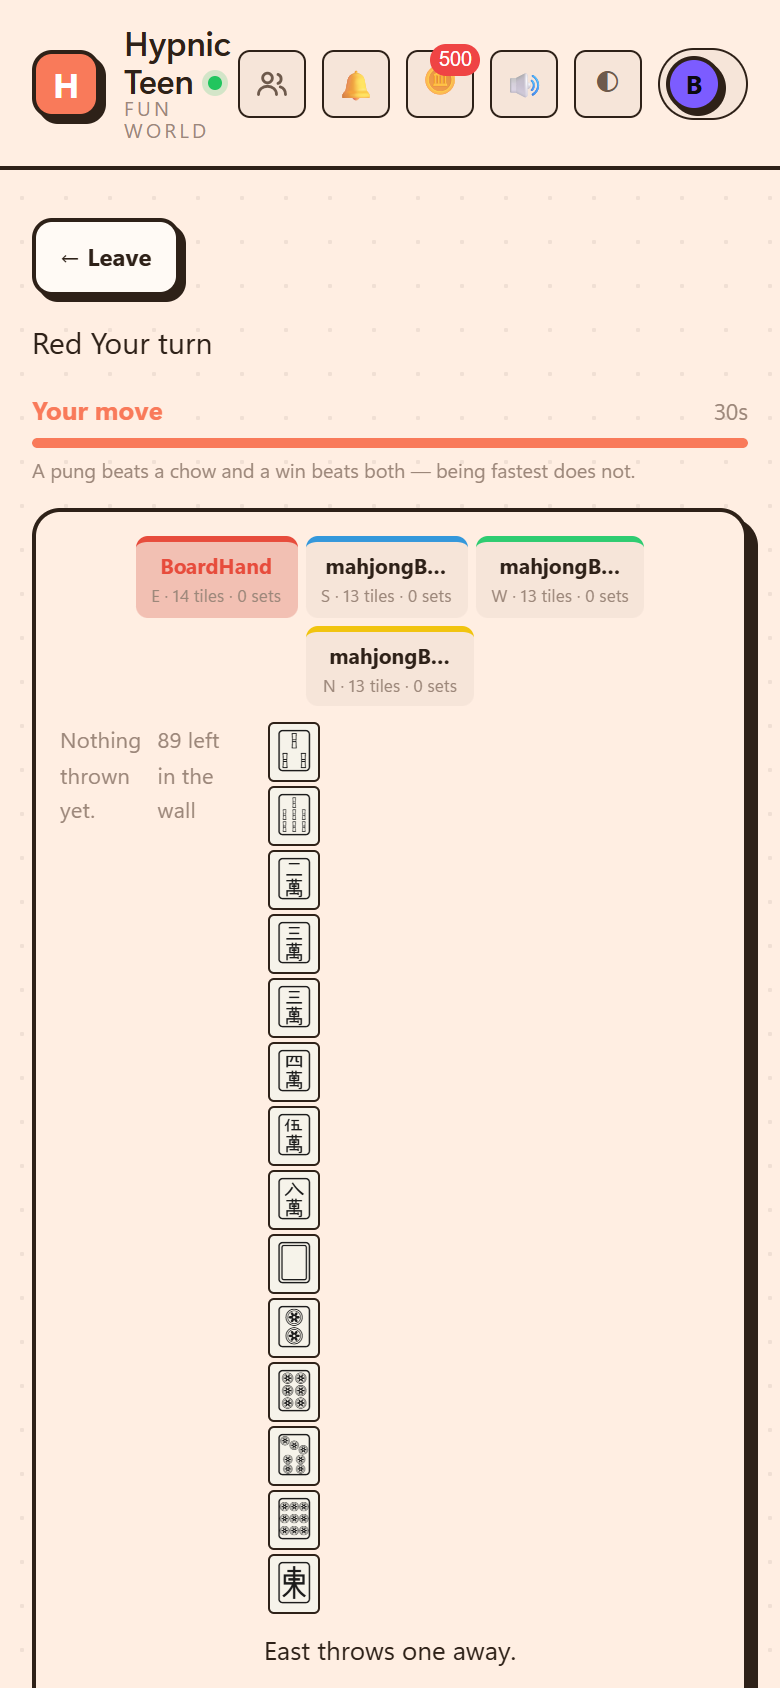
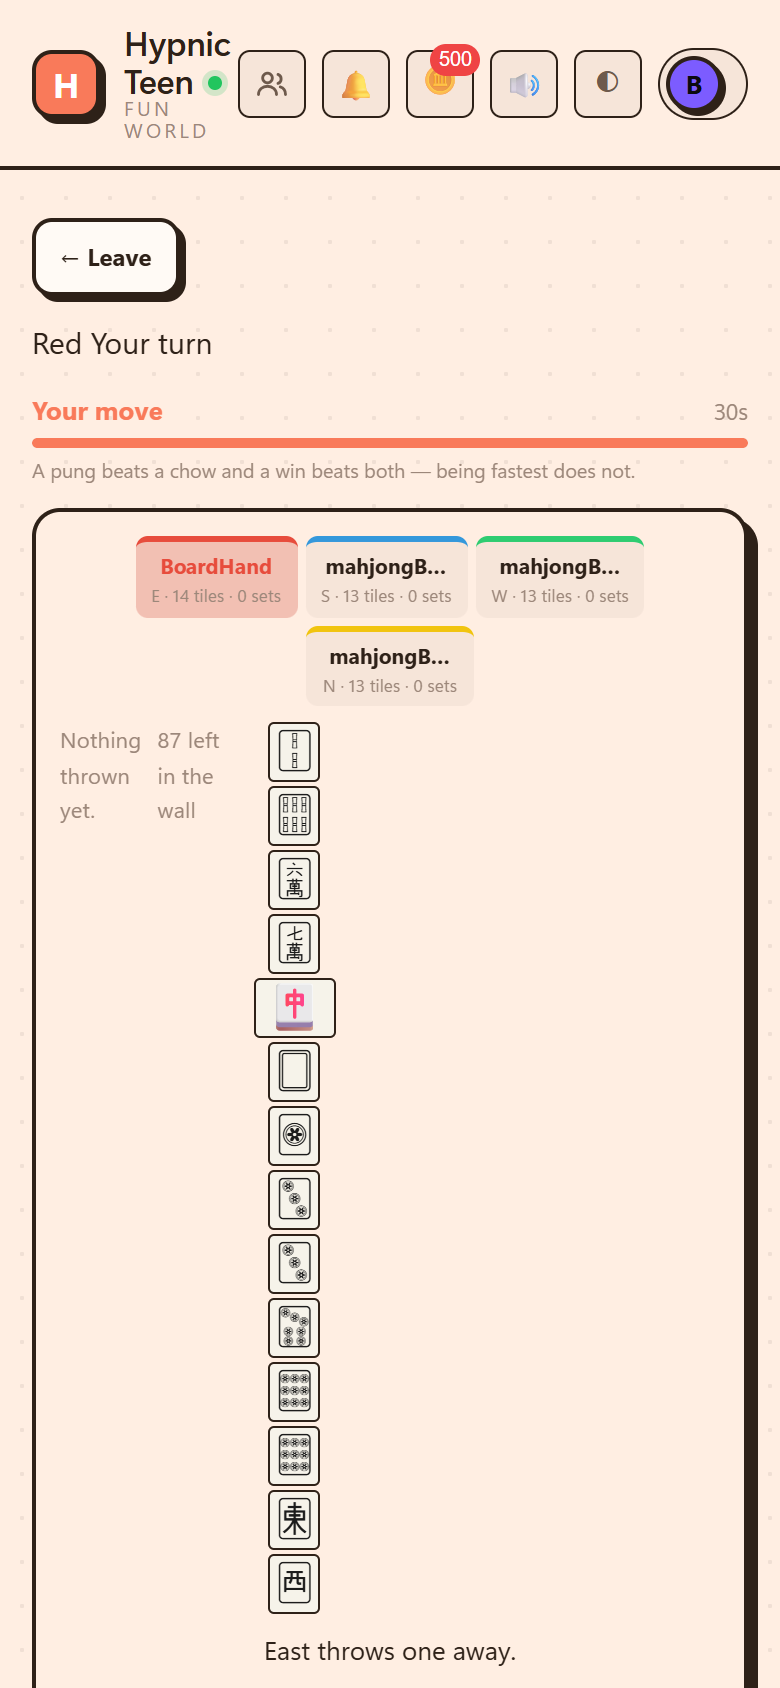
Chain Reaction, the one people mean
The rules were already that game — capacity by neighbours, cascade, last
colour standing. What was missing was everything that makes it feel like
it, and the biggest piece was that the cascade could not be watched.

The server settles the whole chain in one pass and sent only the board it
arrived at. That is the truth and it throws the game away: what people
play this for is one orb in a corner taking half the board, and cutting
straight to the result reports a firework as a noise. So settle() now
films each wave — which cells burst, and the board just after — and the
client plays them out, slower for the first few so a chain reads as a
chain rather than a glitch. It lands on the server's real board at the
end; the frames are a retelling, not the record.

A long film is capped at 64 waves and says how many it dropped, rather
than trimming quietly and looking complete. In practice nothing reaches
it — the colour check ends a cascade the moment one colour is left, and
the worst case measured is 19 waves on a nine-by-twelve board primed to
burst everywhere.

The look, off the original:

  Black field, and the grid itself lit in the colour of whoever is to
  play. With eight round one board, whose turn it is has to be readable
  without looking away from the cells.

  Orbs are spheres with a highlight and a glow, not flat discs, and a
  loaded cell turns slowly so you can read it out of the corner of an eye.

  A cell one short of bursting strains harder than it used to.
[…]

Changed region(s): [[0.3385, 0.4313, 0.4308, 0.955]]

diff --git a/public/games/_board/client.js b/public/games/_board/client.js
@@ -16,8 +16,16 @@ import { Sound } from '/js/sound.js';
 import { confetti, floatText, pulse, motionReduced } from '/js/fx.js';
 import { mountClock } from '/js/turnclock.mjs';
 
-const SEAT_TINT = ['#e74c3c', '#3498db', '#2ecc71', '#f1c40f'];
-const SEAT_NAME = ['Red', 'Blue', 'Green', 'Yellow'];
+// Four for the boards that seat four, eight for Chain Reaction. The extra four
+// are only ever reached by `% 8`, so nothing that indexes `% 4` sees them.
+const SEAT_TINT = [
+  '#e74c3c', '#3498db', '#2ecc71', '#f1c40f',
+  '#9b59b6', '#e67e22', '#1abc9c', '#ec407a',
+];
+const SEAT_NAME = [
+  'Red', 'Blue', 'Green', 'Yellow',
+  'Purple', 'Orange', 'Teal', 'Pink',
+];
 
 /** What happens after this, per game. */
 const NEXT = {
@@ -102,6 +110,9 @@ export default {
     let dropping = null;
     let shownThrow = null;
     let shownSaid = '';
+    /** Which move's cascade has already been played, and the timer playing it. */
+    let shownMove = -1;
+    let chainTimer = null;
 
     $('#bdBriefed').addEventListener('click', () => {
       Net.action({ type: 'briefed' });
@@ -667,12 +678,65 @@ export default {
      * what it will take with it, and counting dots on forty-eight cells is not
      * something anybody can do at a glance.
      */
+    /**
+     * Draw one board — either the settled one or a frame of a cascade.
+     *
+     * `live` is false while a cascade is playing back, which suppresses the
+     * drop targets: a cell you could legally drop into a moment ago may not
+     * survive the explosion, and lighting it up mid-blast invites a tap that
+     * the server will refuse.
+     */
+    function drawOrbs(s, cells, live) {
+      const box = $('#bdBoard');
+      const canDrop = live ? new Set(s.you?.canDrop ?? []) : new Set();
+      const boxes = box.querySelectorAll('.bd-orbcell');
+      for (let i = 0; i < boxes.length; i++) {
+        const cell = boxes[i];
+        const c = cells[i];
+        if (!c) continue;
+        const cap = (s.cells ?? [])[i]?.cap ?? 4;
+        cell.classList.toggle('can-drop', canDrop.has(i));
+        // One short of going, which is the thing worth seeing from across a
+        // table without counting anything.
+        cell.classList.toggle('is-critical', c.n > 0 && c.n === cap - 1);
+        cell.style.setProperty('--tint', c.owner === null ? 'transparent' : SEAT_TINT[c.owner % 8]);
+        // Two orbs sit differently from three, and the count is drawn as an
+        // attribute so CSS can arrange them rather than JS positioning each one.
+        cell.dataset.orbs = String(Math.min(c.n, 4));
+        if (Number(cell.dataset.n) !== c.n || cell.dataset.owner !== String(c.owner)) {
+          cell.dataset.n = String(c.n);
+          cell.dataset.owner = String(c.owner);
+          cell.replaceChildren(
+            ...Array.from({ length: c.n }, () => {
+              const orb = document.createElement('i');
+              orb.className = 'bd-orb';
+              return orb;
+            })
+          );
+        }
+      }
+    }
+
+    /** Flash the cells that burst on this wave, then let the class fall off. */
+    function flashBurst(at) {
+      const box = $('#bdBoard');
+      for (const i of at) {
+        const cell = box.querySelector(`.bd-orbcell[data-cell="${i}"]`);
+        if (!cell) continue;
+        cell.classList.remove('is-burst');
+        // Reading offsetWidth restarts the animation; without it a cell that
+        // bursts on two waves in a row only animates once.
+        void cell.offsetWidth;
+        cell.classList.add('is-burst');
+      }
+    }
+
     function paintChain(s) {
       const box = $('#bdBoard');
       const shape = 'chain' + s.cols + 'x' + s.rows;
       if (box.dataset.size !== shape) {
         box.dataset.size = shape;
-        box.classList.remove('is-ring', 'is-chequer', 'is-ladder');
+        box.classList.remove('is-ring', 'is-chequer', 'is-ladder', 'is-mahjong');
         box.classList.add('is-chain');
         box.style.setProperty('--n', String(s.cols));
         box.replaceChildren(
@@ -691,36 +755,53 @@ export default {
         );
       }
 
-      const canDrop = new Set(s.you?.canDrop ?? []);
-      const cells = box.querySelectorAll('.bd-orbcell');
-      for (let i = 0; i < cells.length; i++) {
-        const cell = cells[i];
-        const c = (s.cells ?? [])[i];
-        if (!c) continue;
-        cell.classList.toggle('can-drop', canDrop.has(i));
-        // One short of going, which is the thing worth seeing from across a
-        // table without counting anything.
-        cell.classList.toggle('is-critical', c.n > 0 && c.n === c.cap - 1);
-        cell.style.setProperty('--tint', c.owner === null ? 'transparent' : SEAT_TINT[c.owner % 4]);
-        const want = c.n;
-        if (Number(cell.dataset.n) !== want || cell.dataset.owner !== String(c.owner)) {
-          cell.dataset.n = String(want);
-          cell.dataset.owner = String(c.owner);
-          cell.replaceChildren(
-            ...Array.from({ length: want }, () => {
-              const orb = document.createElement('i');
-              orb.className = 'bd-orb';
-              return orb;
-            })
-          );
-        }
+      // The grid takes the colour of whoever is to play. It is the one thing
+      // the original does that nothing else here does, and it means you never
+      // have to look away from the board to know whose turn it is.
+      const turnTint = SEAT_TINT[(s.turn ?? 0) % 8];
+      box.style.setProperty('--turn', turnTint);
+
+      // Play the cascade rather than cutting to the end of it.
+      //
+      // The server settles the whole chain in one go and sends the board it
+      // arrived at, plus every wave on the way. Skipping straight to the final
+      // board technically shows the truth and throws away the game: the thing
+      // people play this for is watching one orb take half the board.
+      const film = s.bursting?.film;
+      if (film?.length && s.moveNo !== shownMove && !motionReduced) {
+        shownMove = s.moveNo;
+        clearTimeout(chainTimer);
+        let at = 0;
+        const step = () => {
+          if (at >= film.length) {
+            // Land on the real board, which is the only one the server voucher
+            // for — the frames are a retelling, not the record.
+            chainTimer = null;
+            drawOrbs(s, s.cells ?? [], true);
+            return;
+          }
+          const frame = film[at++];
+          flashBurst(frame.burst);
+          drawOrbs(s, frame.cells, false);
+          // Not on every wave. A long cascade firing a sound per frame is a
+          // machine gun, and the first few are the ones that carry the news.
+          if (at <= 4) Sound.play('orb');
+          // The first waves are slower. A cascade that starts at full speed
+          // reads as a glitch; one that accelerates reads as a chain.
+          chainTimer = setTimeout(step, at < 3 ? 150 : 90);
+        };
+        step();
+        return;
       }
+      if (chainTimer) return;   // a cascade is mid-flight; do not fight it
+      shownMove = s.moveNo;
+      drawOrbs(s, s.cells ?? [], true);
 
       $('#bdSeats').replaceChildren(
         ...(s.counts ?? []).map((p) => {
           const el = document.createElement('div');
           el.className = 'bd-seat';
-          el.style.setProperty('--tint', SEAT_TINT[p.seat % 4]);
+          el.style.setProperty('--tint', SEAT_TINT[p.seat % 8]);
           el.classList.toggle('is-turn', p.seat === s.turn);
           el.classList.toggle('is-you', p.seat === s.you?.seat);
           el.classList.toggle('is-gone', p.out);
@@ -946,6 +1027,10 @@ export default {
     return () => {
       off?.();
       clock.destroy();
+      // A cascade mid-flight would keep drawing into a board that has left the
+      // page, which is a leak and, once the elements are gone, a throw.
+      clearTimeout(chainTimer);
+      chainTimer = null;
       wrap.classList.remove('bd-stage');
       root.remove();
       hud.innerHTML = '';

diff --git a/server/games/board/chainreaction.js b/server/games/board/chainreaction.js
@@ -50,7 +50,10 @@ export const chainreaction = createBoardGame({
   accent: '#e84393',
   face: 'chain',
   minPlayers: 2,
-  maxPlayers: 4,
+  // Eight, like the game everybody knows. The cascade is what makes a crowd
+  // worth having — one orb in the wrong corner can hand the board to somebody
+  // who has not moved yet.
+  maxPlayers: 8,
   turnSeconds: 20,
 
   howToPlay: [
@@ -75,6 +78,7 @@ export const chainreaction = createBoardGame({
     state.cells = [];
     state.played = [];
     state.bursting = null;
+    state.moveNo = 0;
     state.result = null;
   },
 
@@ -84,6 +88,7 @@ export const chainreaction = createBoardGame({
     state.cells = Array.from({ length: cols * rows }, () => ({ n: 0, owner: null }));
     state.played = [];
     state.bursting = null;
+    state.moveNo = 0;
     state.result = null;
     state.turn = 0;
     state.said = 'Drop one anywhere.';
@@ -106,6 +111,10 @@ export const chainreaction = createBoardGame({
     cell.n += 1;
     cell.owner = seat.seat;
     if (!state.played.includes(seat.seat)) state.played.push(seat.seat);
+    // Stamped per move so a client can tell a fresh cascade from a repeat of
+    // the state it is already showing. Without it, every state push during an
+    // animation would restart the animation.
+    state.moveNo = (state.moveNo ?? 0) + 1;
 
     const waves = settle(state, seat.seat);
     state.said = waves > 1
@@ -181,6 +190,10 @@ export const chainreaction = createBoardGame({
       })),
       result: state.result,
       played: state.played,
+      // The cascade, wave by wave, for the client to play out. The cells above
+      // are already the settled board — this is how it got there.
+      bursting: state.bursting,
+      moveNo: state.moveNo ?? 0,
     };
   },
 
@@ -215,17 +228,26 @@ export const chainreaction = createBoardGame({
  * so the cascade feeds itself forever. That is not a runaway to guard against
  * with a step limit; it is the game being over.
  */
+/** How many waves of a cascade are kept for the client to play back. */
+const FILMED = 64;
+
 function settle(state, owner) {
   const { cols, rows } = state.settings;
+  const film = [];
   let waves = 0;
+  let cut = 0;
 
   for (;;) {
     const over = state.cells
       .map((c, i) => ({ c, i }))
       .filter(({ c, i }) => c.n >= capacityOf(cols, rows, i % cols, Math.floor(i / cols)));
-    if (!over.length) return waves;
+    if (!over.length) break;
 
     waves += 1;
+    // Which cells are about to go, recorded *before* they go — the flash
+    // belongs on the cell that burst, not on the neighbours it fed.
+    const bursting = over.map(({ i }) => i);
+
     // A whole wave at once, so the order cells are visited in cannot change
     // the outcome — which it would if each burst were applied as it was found.
     for (const { c, i } of over) {
@@ -236,10 +258,25 @@ function settle(state, owner) {
         state.cells[j].owner = owner;
       }
     }
+
+    // The board after this wave, so the client can play the cascade rather than
+    // cut to the end of it. Watching the chain propagate is the entire game —
+    // sending only the final board is like reporting a firework as a noise.
+    if (film.length < FILMED) {
+      film.push({ burst: bursting, cells: state.cells.map((c) => ({ n: c.n, owner: c.owner })) });
+    } else {
+      cut += 1;
+    }
+
     // The only way out of a cascade that feeds itself.
     const colours = new Set(state.cells.filter((c) => c.n > 0).map((c) => c.owner));
-    if (colours.size <= 1) return waves;
+    if (colours.size <= 1) break;
   }
+
+  // A cascade long enough to be trimmed is rare and worth admitting to rather
+  // than hiding — the client says so instead of quietly skipping to the end.
+  state.bursting = film.length ? { film, cut, waves } : null;
+  return waves;
 }
 
 export { capacityOf, neighbours };

diff --git a/public/css/site.css b/public/css/site.css
@@ -5235,7 +5235,21 @@ body.dropping::after {
 }
 
 /* Chain Reaction: a grid of cells, each drawn as the orbs it holds. */
-.bd-board.is-chain { aspect-ratio: auto; gap: 3px; width: min(100%, 340px); }
+/* Chain Reaction, drawn the way the game is known: a black field, and the grid
+   itself lit in the colour of whoever is to play. That last part does more work
+   than it looks — with eight players round one board, whose turn it is has to
+   be readable without looking away from the cells. */
+.bd-board.is-chain {
+  --turn: var(--accent);
+  aspect-ratio: auto;
+  gap: 0;
+  width: min(100%, 340px);
+  padding: 2px;
+  border-radius: var(--r-sm);
+  background: #0b0d10;
+  border: 1px solid color-mix(in srgb, var(--turn) 55%, #0b0d10);
+  transition: border-color 220ms ease;
+}
 .bd-orbcell {
   display: flex;
   align-items: center;
@@ -5244,24 +5258,61 @@ body.dropping::after {
   gap: 2px;
   aspect-ratio: 1;
   padding: 2px;
-  border-radius: var(--r-sm);
-  border: 1px solid var(--border);
-  background: var(--glass);
+  border-radius: 0;
+  border: 0;
+  /* One hairline per cell rather than a gap, so the grid reads as ruled lines
+     the way the original's does. */
+  box-shadow: inset -1px -1px 0 color-mix(in srgb, var(--turn) 34%, transparent);
+  background: transparent;
+  transition: box-shadow 220ms ease;
 }
-.bd-orbcell.can-drop { border-color: color-mix(in srgb, var(--accent) 60%, var(--border)); }
+.bd-orbcell.can-drop { cursor: pointer; }
+.bd-orbcell:disabled { cursor: default; }
+
+/* An orb is a sphere: a highlight up and to the left, and a darker rim. Flat
+   discs read as counters, and this game is not about counters. */
 .bd-orb {
   width: 30%;
   aspect-ratio: 1;
   border-radius: 50%;
-  background: var(--tint);
-  border: 1px solid color-mix(in srgb, #000 30%, var(--tint));
+  background: radial-gradient(circle at 32% 28%,
+    color-mix(in srgb, #fff 62%, var(--tint)) 0%,
+    var(--tint) 52%,
+    color-mix(in srgb, #000 34%, var(--tint)) 100%);
+  box-shadow: 0 0 6px color-mix(in srgb, var(--tint) 70%, transparent);
 }
+
+/* Two orbs sit apart, three make a triangle, and the group turns slowly —
+   which is how you tell a loaded cell from a quiet one out of the corner of
+   your eye. */
+.bd-orbcell[data-orbs="2"], .bd-orbcell[data-orbs="3"], .bd-orbcell[data-orbs="4"] {
+  animation: bd-orbit 3.2s linear infinite;
+}
+@keyframes bd-orbit {
+  from { transform: rotate(0deg); }
+  to { transform: rotate(360deg); }
+}
+
 /* One short of going. The whole read of the board is what is about to burst. */
 .bd-orbcell.is-critical { box-shadow: inset 0 0 0 2px var(--tint); }
-.bd-orbcell.is-critical .bd-orb { animation: bd-strain 900ms ease-in-out infinite; }
+.bd-orbcell.is-critical .bd-orb { animation: bd-strain 620ms ease-in-out infinite; }
 @keyframes bd-strain {
   0%, 100% { transform: scale(1); }
-  50% { transform: scale(1.18); }
+  50% { transform: scale(1.2); }
+}
+
+/* The wave itself. Put on a cell at the moment it bursts and taken off by the
+   next frame, so a cascade lights up in sequence rather than all at once. */
+.bd-orbcell.is-burst { animation: bd-burst 260ms ease-out; }
+@keyframes bd-burst {
+  0% { box-shadow: inset 0 0 0 2px var(--tint), 0 0 0 0 color-mix(in srgb, var(--tint) 80%, transparent); }
+  100% { box-shadow: inset 0 0 0 0 transparent, 0 0 22px 6px transparent; }
+}
+
+@media (prefers-reduced-motion: reduce) {
+  .bd-orbcell[data-orbs] { animation: none; }
+  .bd-orbcell.is-critical .bd-orb { animation: none; }
+  .bd-orbcell.is-burst { animation: none; }
 }
 .bd-seat.is-gone { opacity: 0.35; }
 
